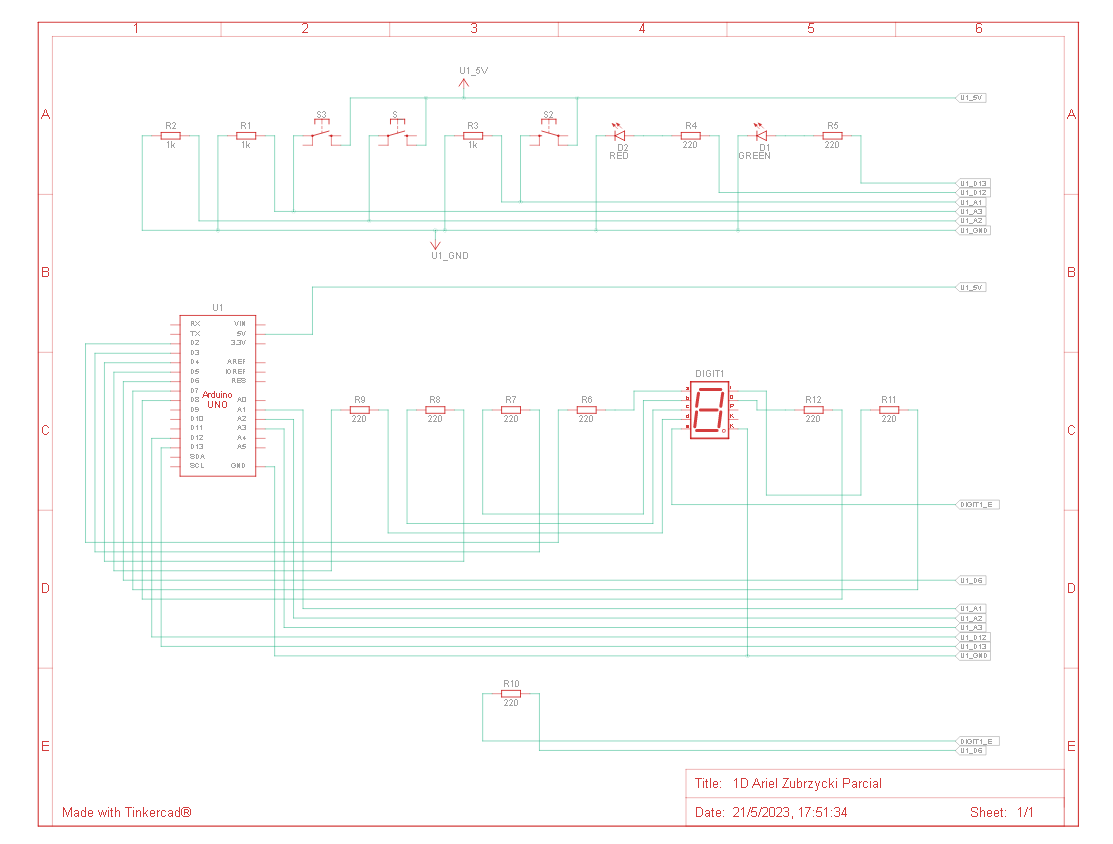
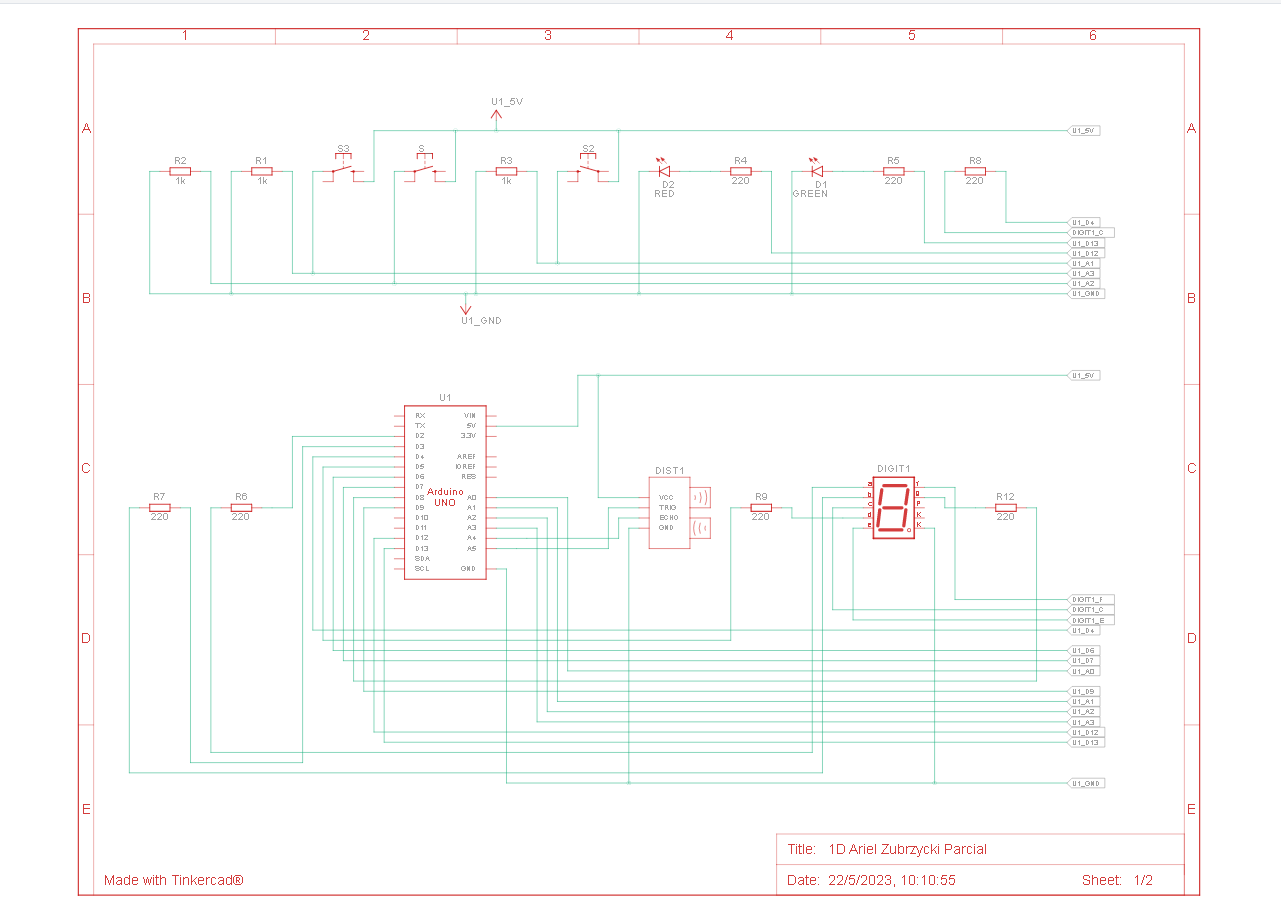
nuevo cambio

diff --git a/README.md b/README.md
@@ -5,10 +5,11 @@
 - Ariel Zubrzycki 
 
 ## Proyecto: Montacarga
-![Tinkercad](./img/Montacarga.png)
+![Tinkercad](./img/montaCarga.png)
 
-## Diagrama esquematico
+## Diagramas esquematicos:
 ![Tinkercad](./img/DiagramaEsquematico.png)
+![Tinkercad](./img/DiagramaEsquematico2.png)
 
 ## Descripción
 Se nos pide armar un modelo de montacarga funcional como maqueta para un hospital. El
@@ -42,6 +43,10 @@ implementado.
 • Deberán explicar el funcionamiento integral utilizando documentación
 MarkDown.
 
+4_Se debe agregar un sensor según el grupo y la funcionalidad que usted se imagine:
+Photoresistor
+Sensor Ultra sonico
+SensorInclinado
 
 ~~~ C (lenguaje en el que esta escrito)
 #define led_A 2
@@ -51,13 +56,24 @@ MarkDown.
 #define led_E 6
 #define led_F 7
 #define led_G 8
+#define TRIGGER A5
+#define ECHO  A4
+#define VELOCIDAD_SONIDO 34300
 
+
+float distancia;
+int tiempo;
+int cargaIngresada;
 int piso = 0;
-int botonAscender = 0;
-int botonDescender = 0;
-int botonPausa = 0;
+int botonAscender;
+int botonDescender;
+int botonPausa;
 int ledRojo = LOW;
 int ledVerde = LOW;
+int photoresistor;
+int dia;
+int sensorTilt;
+int cargaInclinada;
 
 void setup()
 {
@@ -67,7 +83,6 @@ void setup()
   pinMode(A3, INPUT_PULLUP);
   pinMode(13, OUTPUT);
   pinMode(12, OUTPUT);
-
   pinMode(led_A, OUTPUT);
   pinMode(led_B, OUTPUT);
   pinMode(led_C, OUTPUT);
@@ -75,6 +90,11 @@ void setup()
   pinMode(led_E, OUTPUT);
   pinMode(led_F, OUTPUT);
   pinMode(led_G, OUTPUT);
+  pinMode(TRIGGER, OUTPUT);
+  pinMode(ECHO, INPUT);
+  pinMode(A0, INPUT);
+  pinMode(9, INPUT);
+  pinMode(10, OUTPUT);
   
   digitalWrite(led_A, HIGH);
   digitalWrite(led_B, HIGH);
@@ -114,11 +134,72 @@ void loop()
   }
    
   delay(100);
-  estadoMontaCarga(ledVerde, ledRojo);
+  ambienteActual();
+  
+  if(dia == 1)
+  {
+  	estadoMontaCarga(ledVerde, ledRojo);
+  }
+}
+
+void cargaBuenEstado()
+{
+  ingresoDeCarga();
+  sensorInclinado();
+  
+  if(cargaIngresada == 0 || cargaInclinada == 0)
+  {
+    digitalWrite(12, LOW);
+    digitalWrite(13, LOW);
+    Serial.println("El montacarga no tiene ninguna carga encima o la carga esta inclinada");
+  }
+}
+
+void sensorInclinado()
+{
+  digitalWrite(9, HIGH);
+  cargaInclinada = digitalRead(9);
+}
+
+void ambienteActual()
+{
+  photoresistor = analogRead(A0);
+    
+  if(photoresistor == 13)
+  {
+    dia = 1;
+  }
+  else
+  {
+    dia = 0;
+  }
+}
+
+void ingresoDeCarga()
+{
+  digitalWrite(TRIGGER, LOW);
+  delayMicroseconds(2);
+  digitalWrite(TRIGGER, HIGH);
+  delayMicroseconds(5);
+  digitalWrite(TRIGGER, LOW);
+  tiempo=pulseIn(ECHO, HIGH);
+  
+  distancia = tiempo/2 * 0.000001 * VELOCIDAD_SONIDO;
+  
+  if(distancia > 100 && distancia < 200)
+  {
+    cargaIngresada = 1;
+  }
+  else
+  {
+    cargaIngresada = 0;
+  }
 }
 
 void estadoMontaCarga(int ledVerde, int ledRojo)
 {
+  cargaBuenEstado();
+  
   if(ledVerde == HIGH) // Led Ascender
   {
     subirPiso();
@@ -254,7 +335,7 @@ void pisoActual(int piso)
 ~~~
 
 ## :robot: Link al proyecto
-- [proyecto](https://www.tinkercad.com/things/cnA1IdGiebW-1d-ariel-zubrzycki-parcial/editel?sharecode=5KKIiFmEhs5FivAtu2MbWn7XDnpXsF9ZqbPMxW4moHk)
+- [proyecto](https://www.tinkercad.com/things/cnA1IdGiebW-1d-ariel-zubrzycki-parcial/editel)
 
 
 
